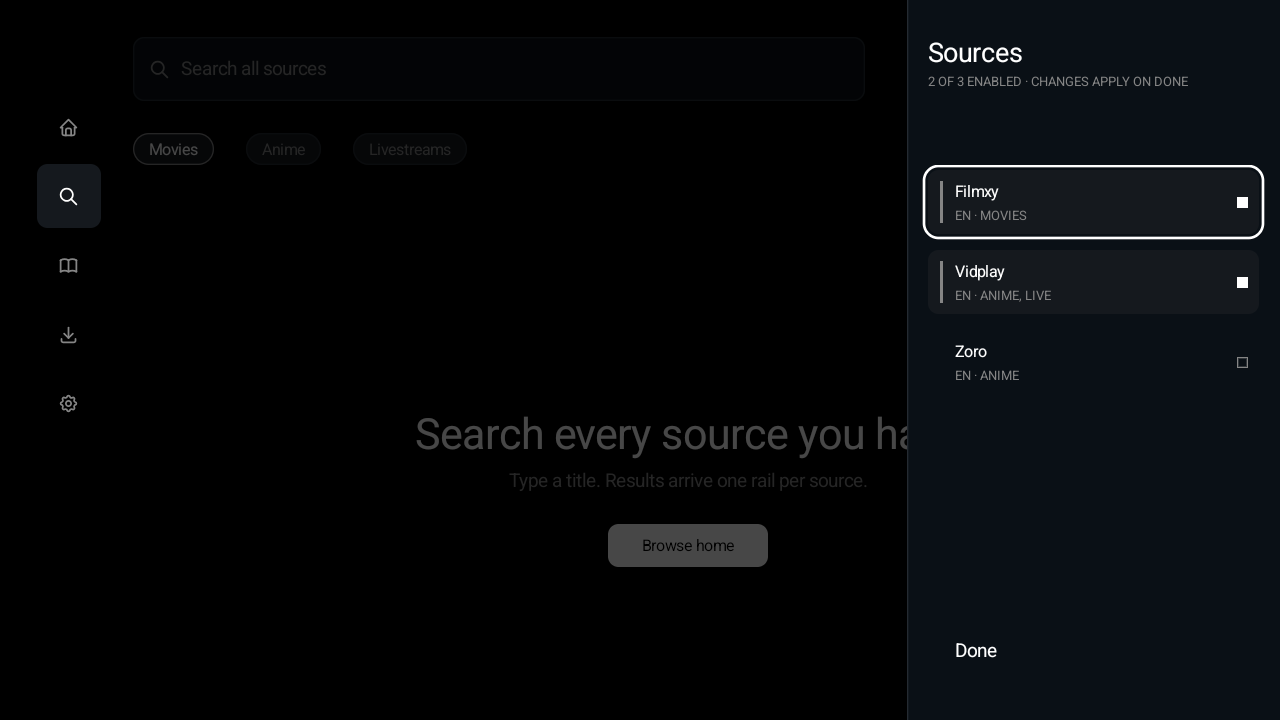
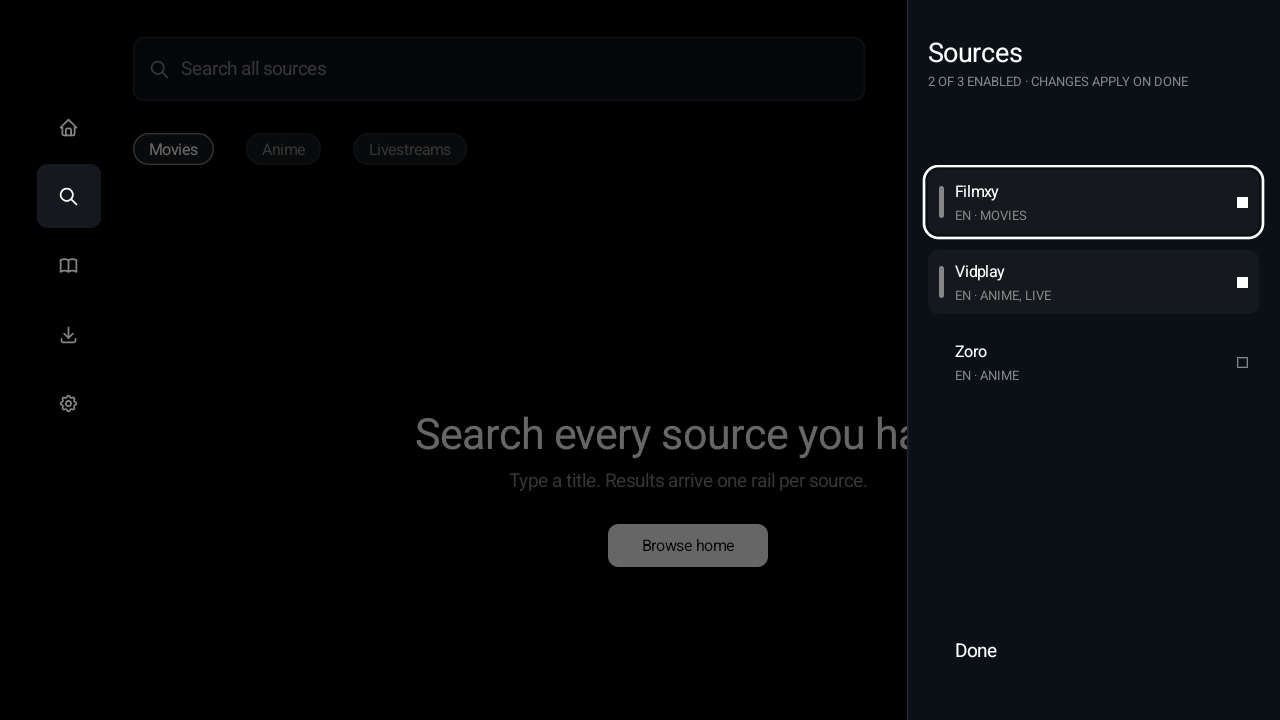
TV search: the panel's reference follows #160's scrim and mark
Looked at per pixel: 69,658 pixels behind the panel, from the scrim's 0.72 becoming 0.6, and 197 inside it, all at
x 939 to 943, from the selection mark becoming a rounded 4 by 24. Nothing else moved.

Claude-Session: https://claude.ai/code/session_01NDcBTtQ6VxXEmQ7JeTWwW2

Changed region(s): [[0.3125, 0.5806, 0.7188, 0.6417], [0.4688, 0.7028, 0.625, 0.7944], [0.125, 0.1833, 0.1562, 0.2139]]

diff --git a/docs/tasks/kmp.md b/docs/tasks/kmp.md
@@ -3560,10 +3560,6 @@ Found: `SkeletonRail` spaces at `ChipRowSpacing` 24, and the rails it stands in 
 Suggest: move the skeleton, which is shared
 Why: a rail jumps when it replaces its skeleton.
 
-Found: `SCRIM_ALPHA` is 0.72 in `SidePanelHost.kt:48`, and 4d's `.scrim` draws 0.6
-Suggest: a designer confirms one, as its KDoc asks
-Why: the code's number was invented before the board existed.
-
 Found: `SearchStops` repeats `HomeStops`' three helpers
 Suggest: one copy in the design system
 Why: not on this task's approved list of shared changes.
